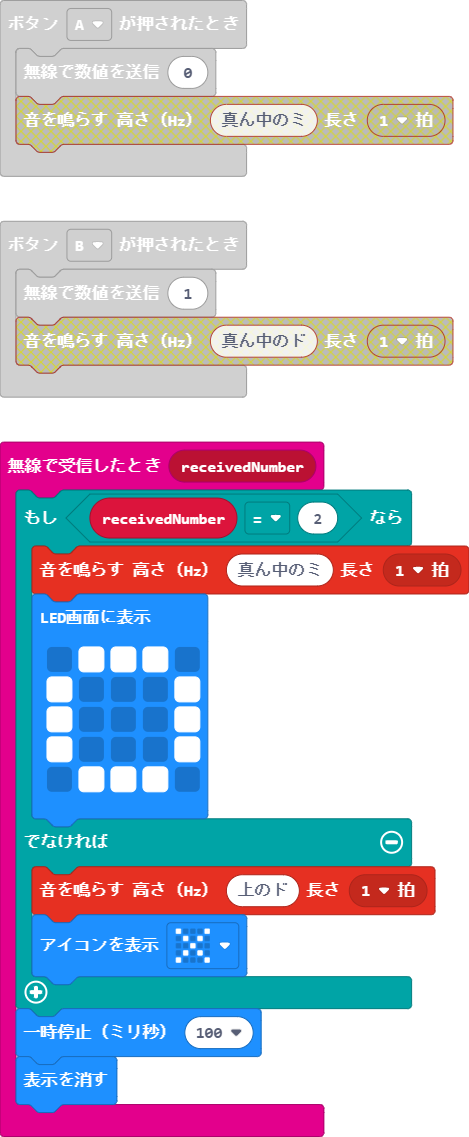
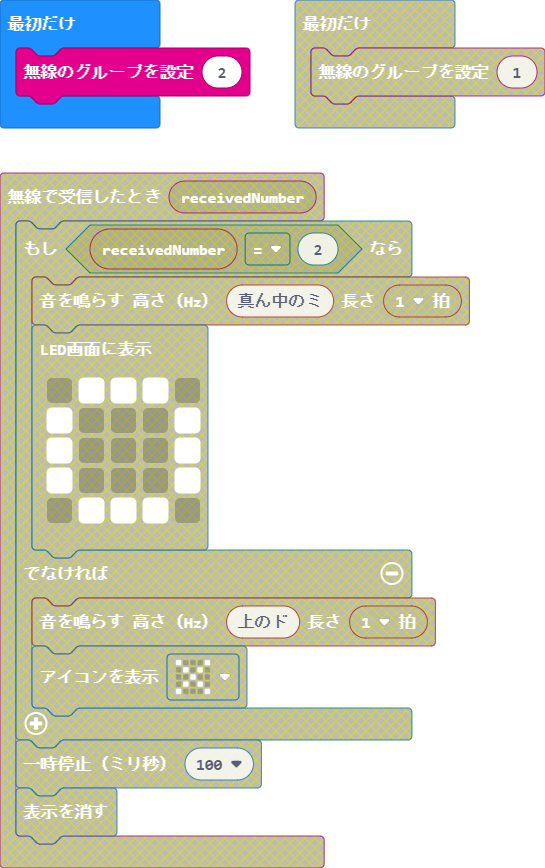
更新 pxt.json, main.blocks, main.ts, main.py

diff --git a/main.ts b/main.ts
@@ -1,24 +1,7 @@
-radio.onReceivedNumber(function (receivedNumber) {
-    if (receivedNumber == 2) {
-        music.playTone(330, music.beat(BeatFraction.Whole))
-        basic.showLeds(`
-            . # # # .
-            # . . . #
-            # . . . #
-            # . . . #
-            . # # # .
-            `)
-    } else {
-        music.playTone(523, music.beat(BeatFraction.Whole))
-        basic.showIcon(IconNames.No)
-    }
-    basic.pause(100)
-    basic.clearScreen()
-})
 input.onButtonPressed(Button.A, function () {
     radio.sendNumber(0)
 })
 input.onButtonPressed(Button.B, function () {
     radio.sendNumber(1)
 })
-radio.setGroup(1)
+radio.setGroup(2)

diff --git a/main.py b/main.py
@@ -1,0 +1,9 @@
+def on_button_pressed_a():
+    radio.send_number(0)
+input.on_button_pressed(Button.A, on_button_pressed_a)
+
+def on_button_pressed_b():
+    radio.send_number(1)
+input.on_button_pressed(Button.B, on_button_pressed_b)
+
+radio.set_group(2)
